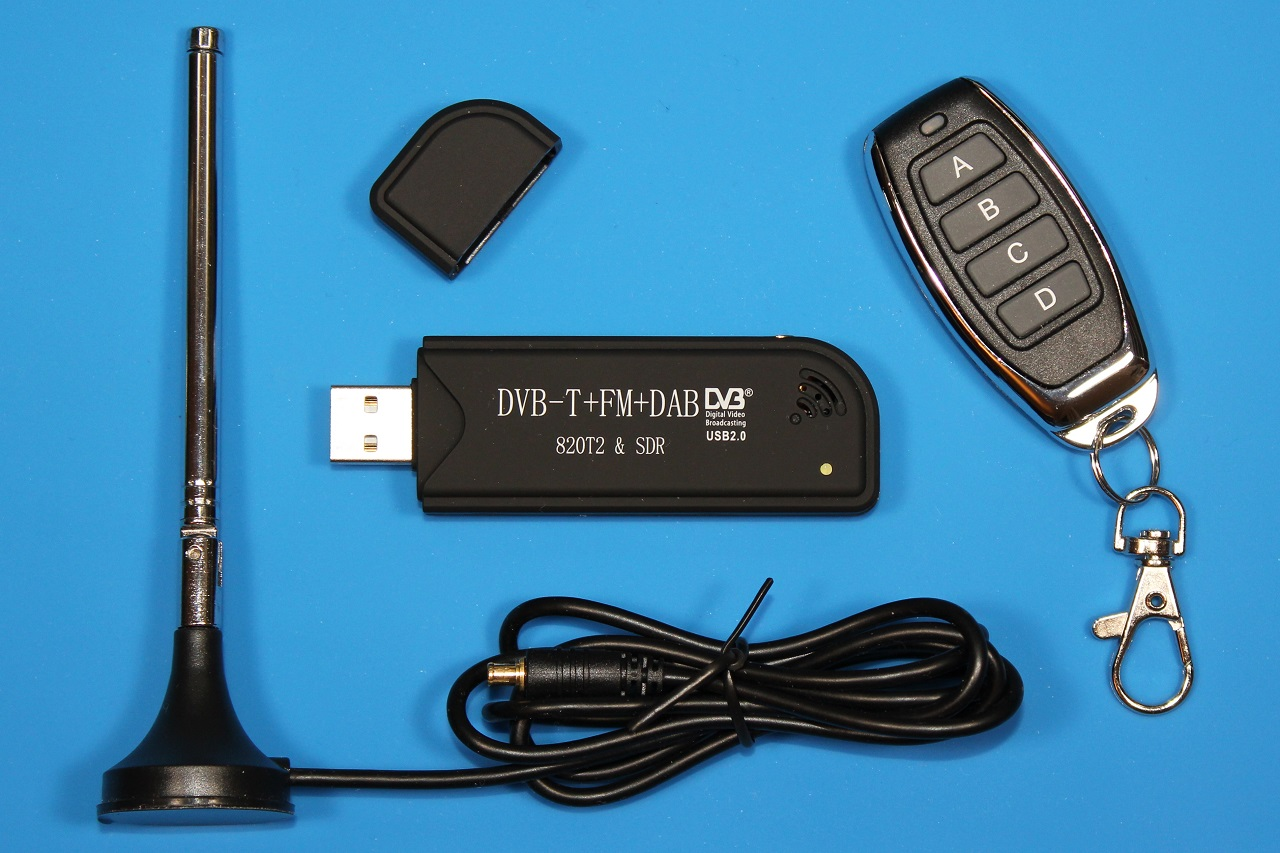
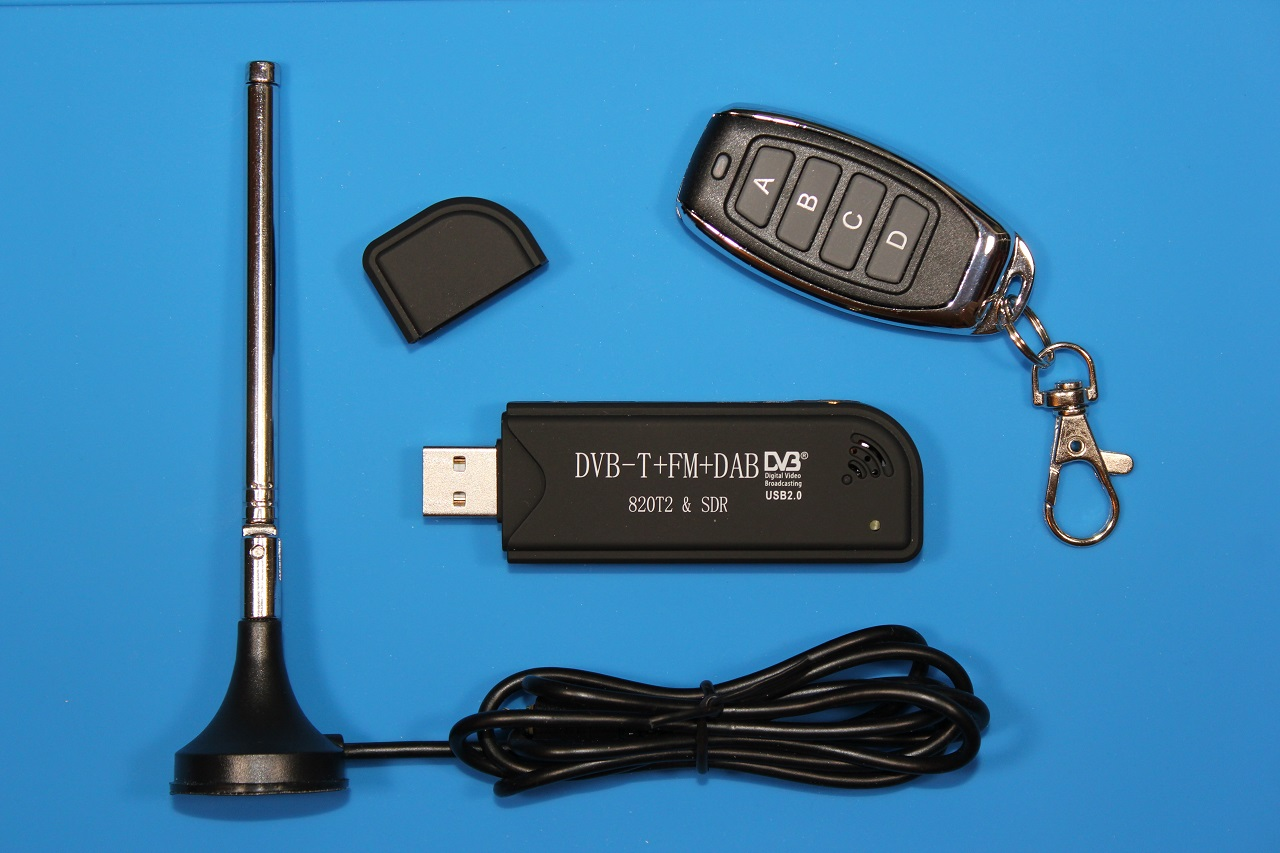
Add DTV remote.

diff --git a/content/posts/trigger-software-events-using-a-generic-433mhz-wireless-remote/index.md b/content/posts/trigger-software-events-using-a-generic-433mhz-wireless-remote/index.md
@@ -90,7 +90,7 @@ ID        : 0CA376E
 Pressure  : 260.0 kPa    Temperature: 28 C         Integrity : CRC
 {{< /highlight >}}
 
-To filter out extraneous messages, create a wrapper script around `rtl_433_64bit_static.exe` that looks for the button-specific `Command` messages and triggers the desired events.
+To filter out these extraneous messages, create a wrapper script around `rtl_433_64bit_static.exe` that looks for the button-specific `Command` messages and triggers the desired events.
 For my own use, I created a script called `remote.bat` and placed it in `C:\Users\ccammack\bin` along with `rtl_433_64bit_static.exe`.
 
 It might be possible to write this as a pure batch script using `FOR` and `FINDSTR`,
@@ -147,7 +147,7 @@ Terminate batch job (Y/N)? y
 
 ##### Ubuntu Installation
 
-Installation on Ubuntu is much simpler. Simply plug in the SDR dongle, install `rtl-433`, and run a quick test to make sure everything works.
+Installation on Ubuntu is much simpler. Simply plug in the SDR dongle, install `rtl-433` and run a quick test to make sure everything works.
 
 {{< highlight txt >}}
 ~$ sudo apt -y install rtl-433
@@ -217,4 +217,71 @@ Button B
 Button C
 Button D
 ^C
+{{< /highlight >}}
+
+##### Need More Buttons?
+
+If the key fob doesn't have enough buttons for your needs, check the list of **Supported device protocols** on the [rtl_433 page](https://github.com/merbanan/rtl_433#running)
+and the corresponding [test folder for each device](https://github.com/merbanan/rtl_433_tests/tree/master/tests) for some other possibilities.
+
+One good option is the **DirecTV RC66RX Remote Control**, which can be had for under $10 and works well with this setup.
+
+{{< figure src="directv-rc66rx-remote-control.jpg" alt="DirecTV RC66RX Remote Control">}}
+
+To [enable RF mode](https://github.com/merbanan/rtl_433_tests/tree/master/tests/directv#description) on the remote:
+
+1. Move the input select slider all the way to the left
+1. Press and hold `Mute` and `SELECT` until the LED flashes twice
+1. Enter `9` `6` `1` and the LED will flash twice
+1. Press `CHAN|PAGE Up` to enter RF mode and the LED will flash twice
+1. Enter any 6-digit code you want to identify the remote
+1. Press `SELECT` and the LED will flash twice
+
+If the LED does not flash twice in the last step, repeat the procedure without any delay between steps.
+
+Run `rtl_433` again and press some buttons to see the output.
+
+{{< highlight txt >}}
+C:\Users\ccammack\bin (master)
+λ rtl_433_64bit_static.exe
+[...]
+Tuned to 433.920MHz.
+_ _ _ _ _ _ _ _ _ _ _ _ _ _ _ _ _ _ _ _ _ _ _ _ _ _ _ _ _ _ _ _ _ _ _ _ _ _ _ _
+time      : 2020-08-16 00:54:49
+model     : DirecTV-RC66RX                         id        : 123456
+button_id : 0x30         button_name: [VCR PLAY]   event     : INITIAL
+mic       : CHECKSUM
+_ _ _ _ _ _ _ _ _ _ _ _ _ _ _ _ _ _ _ _ _ _ _ _ _ _ _ _ _ _ _ _ _ _ _ _ _ _ _ _
+time      : 2020-08-16 00:54:49
+model     : DirecTV-RC66RX                         id        : 123456
+button_id : 0x30         button_name: [VCR PLAY]   event     : REPEAT
+mic       : CHECKSUM
+_ _ _ _ _ _ _ _ _ _ _ _ _ _ _ _ _ _ _ _ _ _ _ _ _ _ _ _ _ _ _ _ _ _ _ _ _ _ _ _
+time      : 2020-08-16 00:55:03
+model     : DirecTV-RC66RX                         id        : 123456
+button_id : 0x31         button_name: [VCR STOP]   event     : INITIAL
+mic       : CHECKSUM
+_ _ _ _ _ _ _ _ _ _ _ _ _ _ _ _ _ _ _ _ _ _ _ _ _ _ _ _ _ _ _ _ _ _ _ _ _ _ _ _
+time      : 2020-08-16 00:55:03
+model     : DirecTV-RC66RX                         id        : 123456
+button_id : 0x31         button_name: [VCR STOP]   event     : REPEAT
+mic       : CHECKSUM
+Signal caught, exiting!
+{{< /highlight >}}
+
+The `VOL`, `Mute`, `TV INPUT` and `TV POWER` buttons do not generate unique RF signals because they were designed to control the IR functions on a TV.
+Instead, they all broadcast the same RF signal, which appears as `DTV: IR ALERT` in the output from `rtl_433`.
+
+The remaining ~40 buttons all generate unique RF signals and `rtl_433` can even distinguish between `INITIAL` and `REPEAT` button events.
+
+{{< highlight txt >}}
+time      : 2020-08-16 00:48:54
+model     : DirecTV-RC66RX                         id        : 123456
+button_id : 0x5B         button_name: [DTV: IR ALERT]	event     : INITIAL
+mic       : CHECKSUM
+_ _ _ _ _ _ _ _ _ _ _ _ _ _ _ _ _ _ _ _ _ _ _ _ _ _ _ _ _ _ _ _ _ _ _ _ _ _ _ _
+time      : 2020-08-16 00:48:54
+model     : DirecTV-RC66RX                         id        : 123456
+button_id : 0x5B         button_name: [DTV: IR ALERT]	event     : REPEAT
+mic       : CHECKSUM
 {{< /highlight >}}
